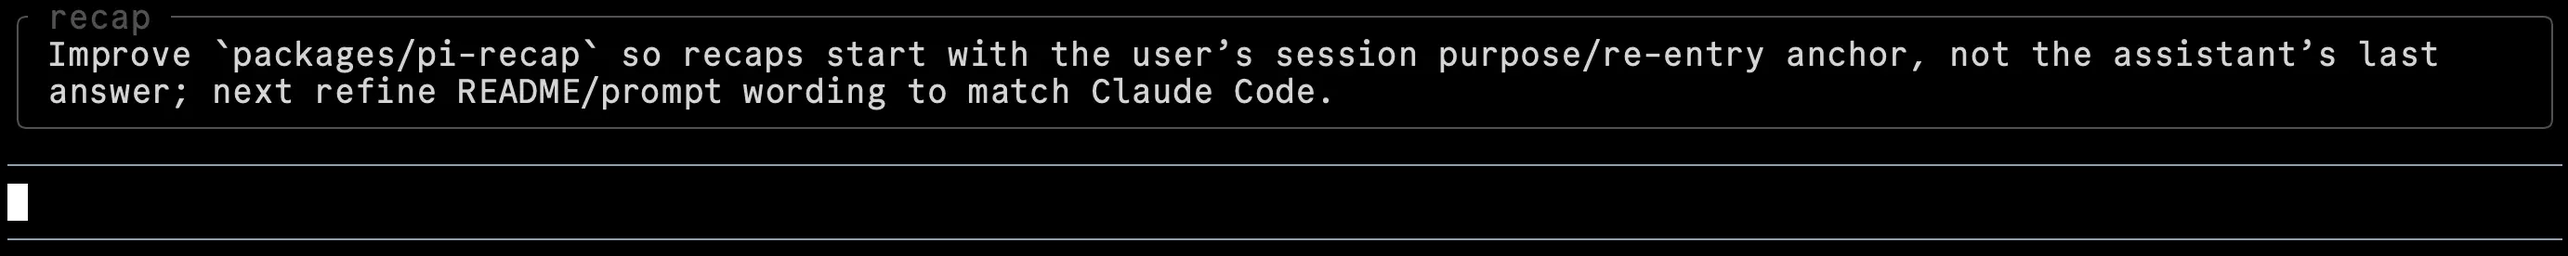
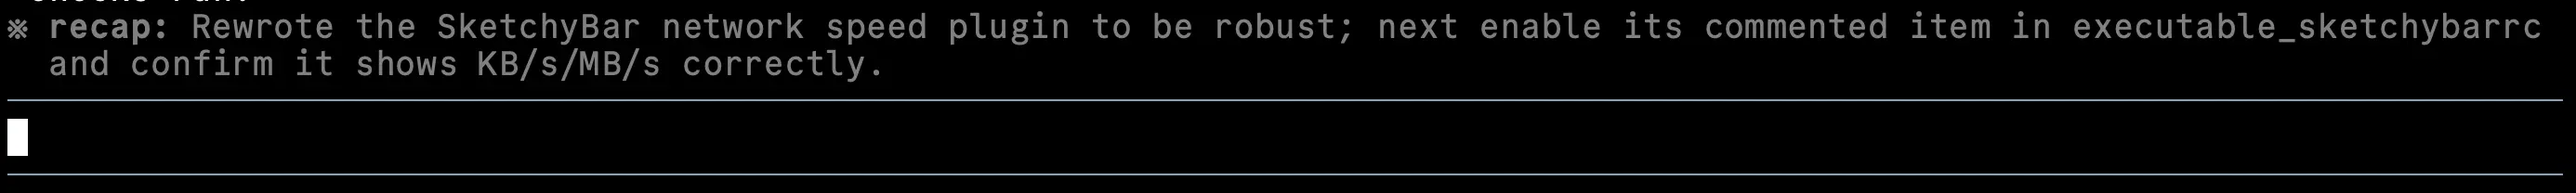
chore: refine recap widget to match Claude Code style

diff --git a/.changeset/refine-recap-widget.md b/.changeset/refine-recap-widget.md
@@ -2,4 +2,4 @@
 "@tifan/pi-recap": patch
 ---
 
-Refine the recap widget into an inline status line and show progress while manual recap generation runs.
+Refine the recap widget to look more like Claude Code's and show progress while manual recap generation runs.
